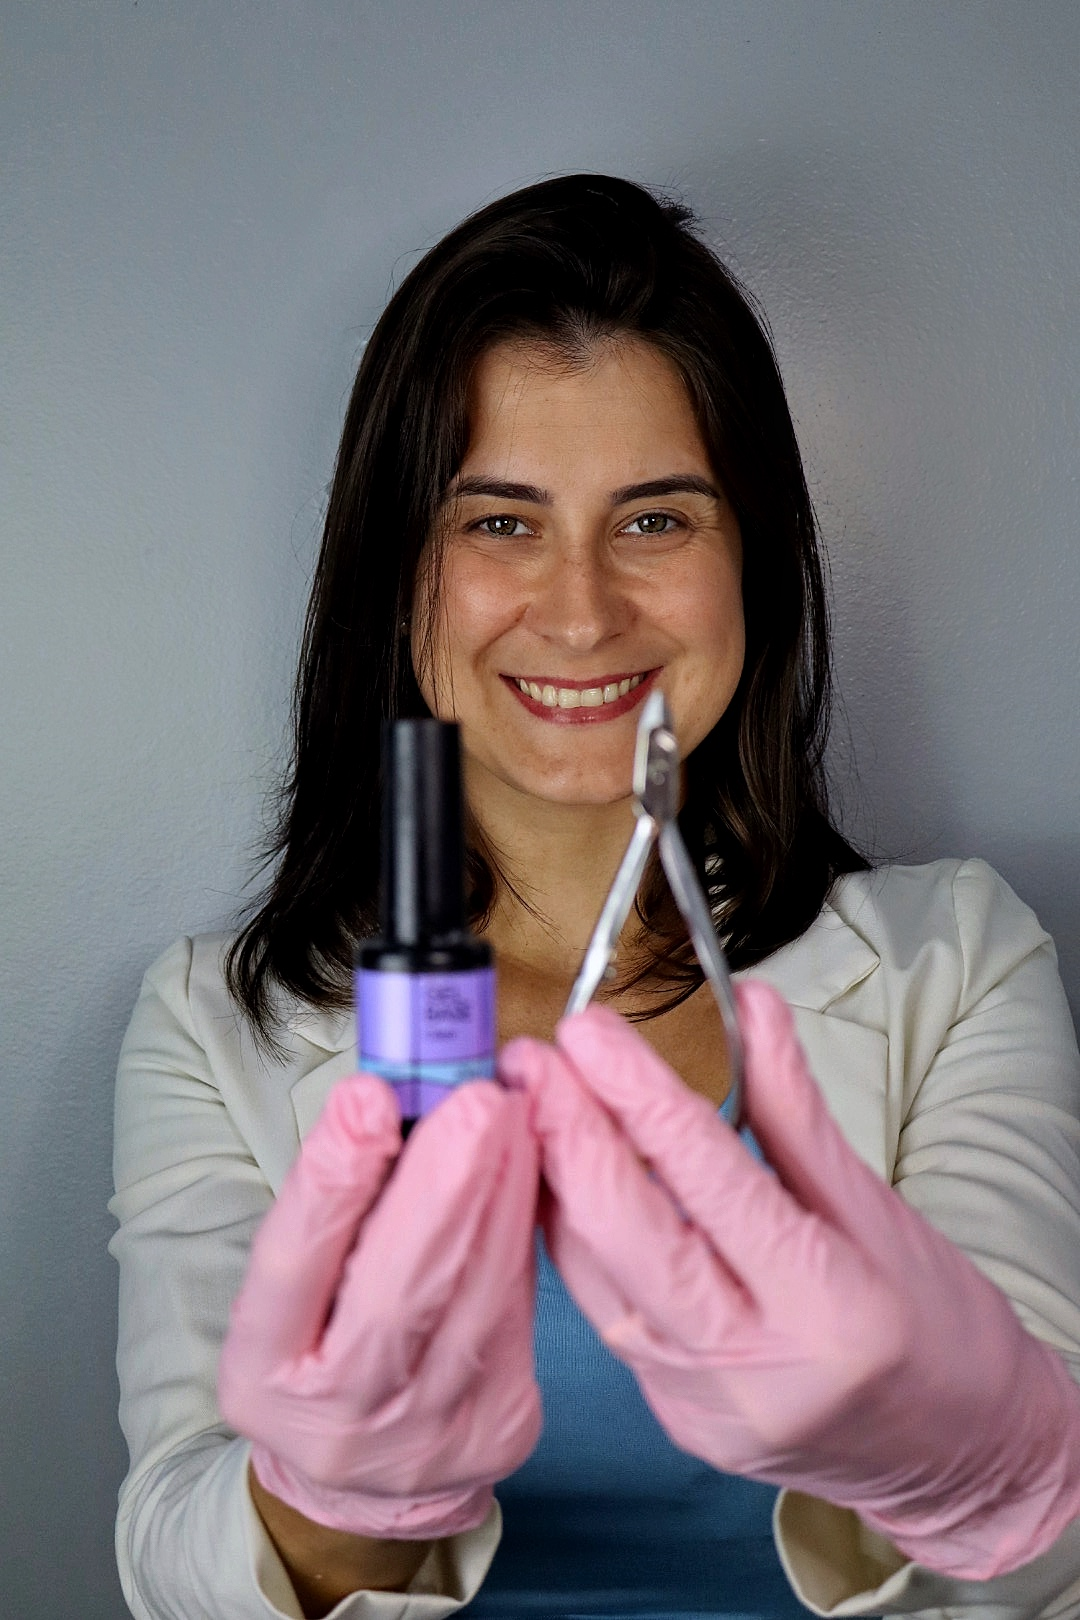
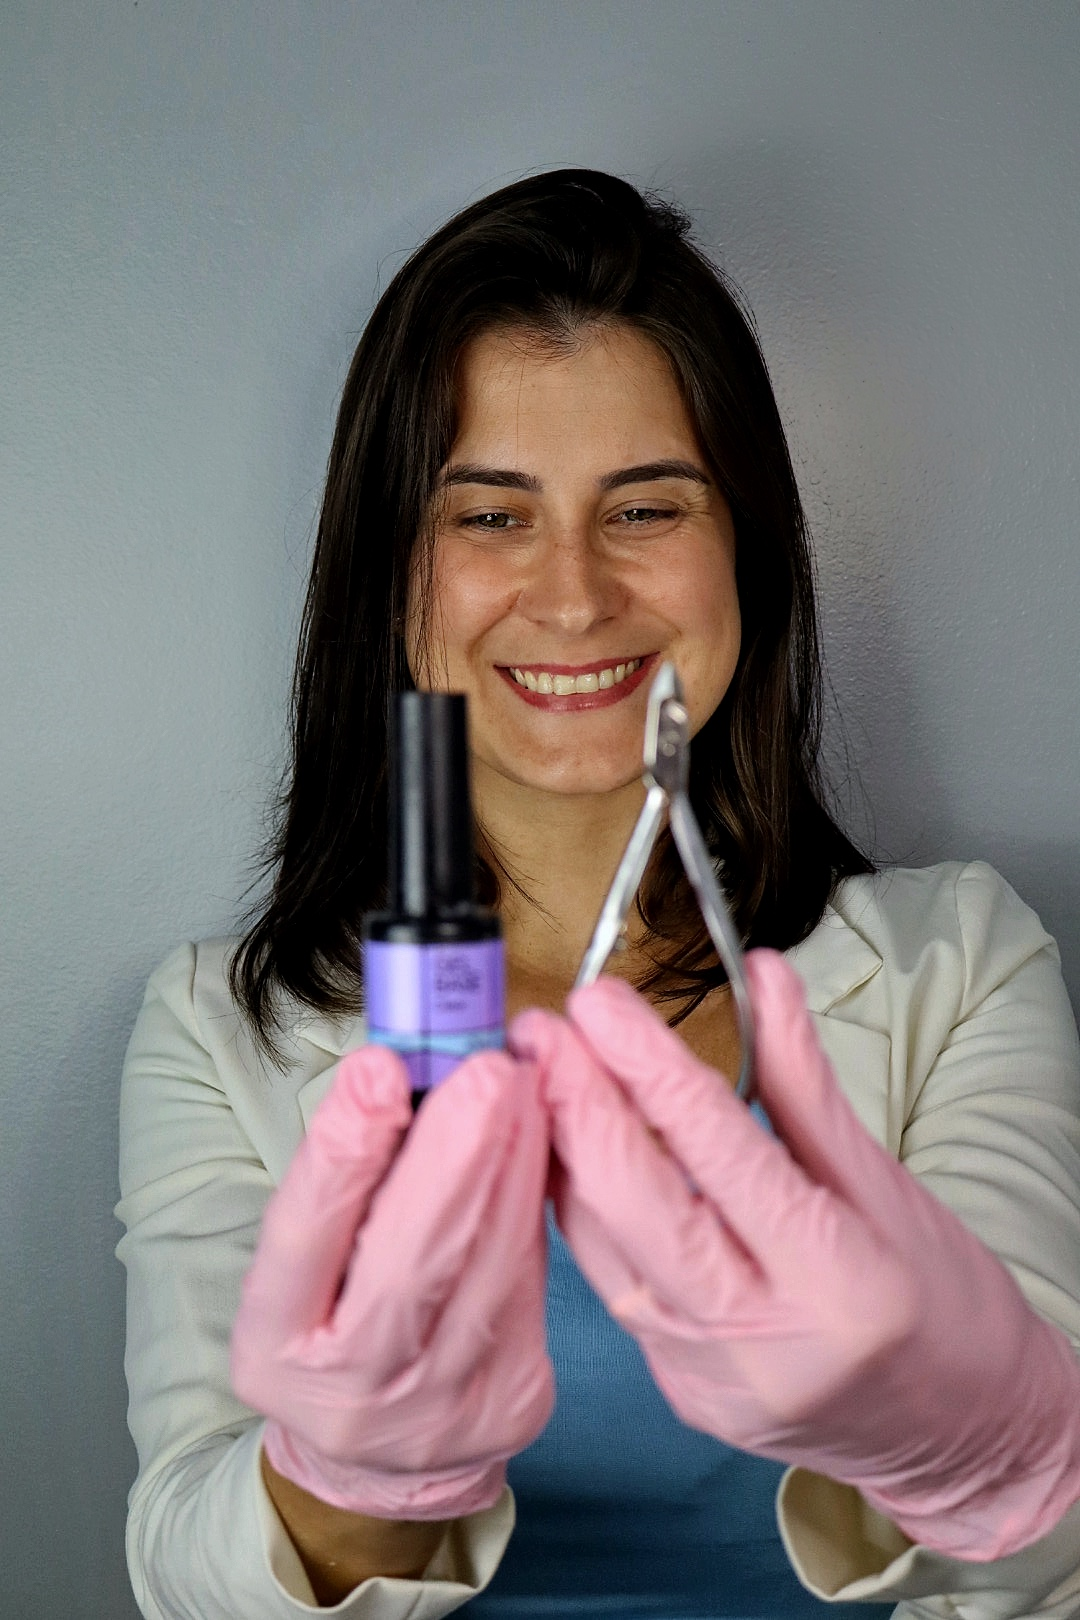
Adiciona álbuns de fotos clicáveis no portfólio
Ensaio Andrielly (10 fotos) e Amanda Carvalho (6 fotos) com visualização
em galeria e botão de retorno ao grid principal.

diff --git a/components/sections/Portfolio.tsx b/components/sections/Portfolio.tsx
@@ -3,8 +3,8 @@
 import { useState, useMemo } from "react";
 import Image from "next/image";
 import { motion, AnimatePresence } from "framer-motion";
-import { PROJECTS, CATEGORIES, type Category } from "@/data/projects";
-import { RevealOnScroll, RevealGroup, RevealItem } from "@/components/ui/RevealOnScroll";
+import { PROJECTS, CATEGORIES, type Category, type Project } from "@/data/projects";
+import { RevealOnScroll } from "@/components/ui/RevealOnScroll";
 
 const DESIGN_COLORS: Record<number, string> = {
   6: "from-[#2E1A10] to-[#1A1612]",
@@ -13,13 +13,86 @@ const DESIGN_COLORS: Record<number, string> = {
   9: "from-[#12181E] to-[#0E1214]",
 };
 
-const VIDEO_COLORS: Record<number, string> = {
-  10: "from-[#1A1012] to-[#0E0B09]",
-  11: "from-[#101A12] to-[#0B0E09]",
-};
+// ── Álbum view ──────────────────────────────────────────────────
+function AlbumView({ project, onBack }: { project: Project; onBack: () => void }) {
+  const images = project.images ?? [project.thumb];
 
+  return (
+    <motion.div
+      initial={{ opacity: 0, y: 30 }}
+      animate={{ opacity: 1, y: 0 }}
+      exit={{ opacity: 0, y: 20 }}
+      transition={{ duration: 0.5, ease: [0.76, 0, 0.24, 1] }}
+    >
+      {/* Header do álbum */}
+      <div className="flex items-start justify-between mb-12">
+        <div>
+          <div className="flex items-center gap-3 mb-4">
+            <span className="w-8 h-px bg-[var(--color-accent)]" />
+            <span className="text-[11px] uppercase tracking-[0.25em] text-[var(--color-accent)]"
+              style={{ fontFamily: "var(--font-mono, monospace)" }}>
+              {project.tags[0]}
+            </span>
+          </div>
+          <h2
+            className="text-3xl md:text-5xl font-light leading-tight tracking-[-0.02em]"
+            style={{ fontFamily: "var(--font-display, Georgia, serif)" }}
+          >
+            {project.title}
+          </h2>
+          <p className="text-[#6E6256] text-sm mt-2">{project.subtitle}</p>
+        </div>
+
+        <button
+          onClick={onBack}
+          className="group flex items-center gap-2 text-xs uppercase tracking-[0.15em] text-[#6E6256] hover:text-[#F2EDE8] border border-[#2E2820] hover:border-[var(--color-accent)]/40 px-4 py-2.5 rounded-sm transition-all duration-300 mt-2 flex-shrink-0"
+        >
+          <span className="group-hover:-translate-x-1 transition-transform duration-300">←</span>
+          Voltar
+        </button>
+      </div>
+
+      {/* Grid de fotos */}
+      <div className="columns-1 sm:columns-2 lg:columns-3 gap-4 space-y-4">
+        {images.map((src, i) => (
+          <motion.div
+            key={src}
+            initial={{ opacity: 0, y: 20 }}
+            animate={{ opacity: 1, y: 0 }}
+            transition={{ duration: 0.5, delay: i * 0.06, ease: [0.76, 0, 0.24, 1] }}
+            className="break-inside-avoid overflow-hidden rounded-sm"
+          >
+            <Image
+              src={src}
+              alt={`${project.title} — foto ${i + 1}`}
+              width={800}
+              height={1200}
+              sizes="(max-width: 640px) 100vw, (max-width: 1024px) 50vw, 33vw"
+              className="w-full h-auto object-cover hover:scale-[1.02] transition-transform duration-500"
+              loading={i < 3 ? "eager" : "lazy"}
+            />
+          </motion.div>
+        ))}
+      </div>
+
+      {/* Botão voltar no final */}
+      <div className="flex justify-center mt-16">
+        <button
+          onClick={onBack}
+          className="group flex items-center gap-3 text-xs uppercase tracking-[0.15em] text-[var(--color-accent)] border border-[var(--color-accent)]/30 px-6 py-3 rounded-sm hover:bg-[var(--color-accent)] hover:text-[#F2EDE8] transition-all duration-300"
+        >
+          <span className="group-hover:-translate-x-1 transition-transform duration-300">←</span>
+          Ver todos os trabalhos
+        </button>
+      </div>
+    </motion.div>
+  );
+}
+
+// ── Portfolio principal ──────────────────────────────────────────
 export function Portfolio() {
   const [active, setActive] = useState<Category>("destaques");
+  const [selectedProject, setSelectedProject] = useState<Project | null>(null);
 
   const filtered = useMemo(() => {
     if (active === "destaques") return PROJECTS.filter((p) => p.featured);
@@ -31,115 +104,133 @@ export function Portfolio() {
     <section id="portfolio" className="w-full bg-[#0E0B09] py-24 md:py-32">
       <div className="max-w-[1200px] mx-auto px-8 sm:px-12 md:px-16 lg:px-20">
 
-        {/* Header */}
-        <RevealOnScroll className="mb-16">
-          <div className="flex items-center gap-3 mb-6">
-            <span className="w-8 h-px bg-[var(--color-accent)]" />
-            <span className="text-[11px] uppercase tracking-[0.25em] text-[var(--color-accent)]"
-              style={{ fontFamily: "var(--font-mono, monospace)" }}>
-              Trabalhos
-            </span>
-          </div>
-          <h2
-            className="text-4xl md:text-6xl font-light leading-tight tracking-[-0.02em]"
-            style={{ fontFamily: "var(--font-display, Georgia, serif)" }}
-          >
-            Portfólio
-          </h2>
-        </RevealOnScroll>
-
-        {/* Filtros */}
-        <RevealOnScroll delay={0.15} className="flex flex-wrap gap-2 mb-12">
-          {CATEGORIES.map((cat) => (
-            <button
-              key={cat.key}
-              onClick={() => setActive(cat.key)}
-              className={`px-4 py-2 text-xs uppercase tracking-[0.15em] rounded-sm border transition-all duration-300 ${
-                active === cat.key
-                  ? "bg-[var(--color-accent)] border-[var(--color-accent)] text-[#F2EDE8]"
-                  : "border-[#2E2820] text-[#6E6256] hover:border-[var(--color-accent)]/50 hover:text-[#A09488]"
-              }`}
+        <AnimatePresence mode="wait">
+          {selectedProject ? (
+            <AlbumView
+              key="album"
+              project={selectedProject}
+              onBack={() => setSelectedProject(null)}
+            />
+          ) : (
+            <motion.div
+              key="grid"
+              initial={{ opacity: 0 }}
+              animate={{ opacity: 1 }}
+              exit={{ opacity: 0 }}
+              transition={{ duration: 0.4 }}
             >
-              {cat.label}
-            </button>
-          ))}
-        </RevealOnScroll>
-
-        {/* Grid */}
-        <motion.div layout className="grid grid-cols-1 sm:grid-cols-2 lg:grid-cols-3 gap-4 md:gap-5">
-          <AnimatePresence mode="popLayout">
-            {filtered.map((project, i) => (
-              <motion.article
-                key={project.id}
-                layout
-                initial={{ opacity: 0, y: 40, scale: 0.97, filter: "blur(6px)" }}
-                whileInView={{ opacity: 1, y: 0, scale: 1, filter: "blur(0px)" }}
-                exit={{ opacity: 0, scale: 0.94, filter: "blur(4px)" }}
-                viewport={{ once: true, amount: 0.1 }}
-                transition={{
-                  duration: 0.7,
-                  delay: (i % 3) * 0.1,
-                  ease: [0.76, 0, 0.24, 1],
-                }}
-                className="group relative overflow-hidden rounded-sm cursor-pointer bg-[#1A1612]"
-                style={{ aspectRatio: project.orientation === "portrait" ? "3/4" : "4/3" }}
-              >
-                {/* Imagem ou placeholder */}
-                {project.thumb ? (
-                  <Image
-                    src={project.thumb}
-                    alt={project.title}
-                    fill
-                    sizes="(max-width: 640px) 100vw, (max-width: 1024px) 50vw, 33vw"
-                    className="object-cover transition-transform duration-700 group-hover:scale-105"
-                    style={{ objectPosition: "center top" }}
-                    loading={i === 0 ? "eager" : "lazy"}
-                  />
-                ) : (
-                  <div
-                    className={`absolute inset-0 bg-gradient-to-br ${
-                      project.category === "design"
-                        ? (DESIGN_COLORS[project.id] ?? "from-[#1A1612] to-[#0E0B09]")
-                        : (VIDEO_COLORS[project.id] ?? "from-[#1A1612] to-[#0E0B09]")
-                    } flex items-center justify-center`}
-                  >
-                    <span className="text-[40px] opacity-10 select-none">
-                      {project.category === "design" ? "◻" : "▷"}
-                    </span>
-                  </div>
-                )}
-
-                {/* Overlay hover */}
-                <div className="absolute inset-0 bg-gradient-to-t from-[#0E0B09]/90 via-[#0E0B09]/20 to-transparent opacity-0 group-hover:opacity-100 transition-opacity duration-400" />
-
-                {/* Info card */}
-                <div className="absolute bottom-0 left-0 right-0 p-5 translate-y-3 group-hover:translate-y-0 opacity-0 group-hover:opacity-100 transition-all duration-400">
-                  <div className="flex items-center gap-2 mb-2">
-                    {project.tags.slice(0, 2).map((tag) => (
-                      <span key={tag} className="text-[10px] uppercase tracking-wider text-[var(--color-accent)]">
-                        {tag}
-                      </span>
-                    ))}
-                  </div>
-                  <h3
-                    className="text-[#F2EDE8] text-lg font-light leading-tight"
-                    style={{ fontFamily: "var(--font-display, Georgia, serif)" }}
-                  >
-                    {project.title}
-                  </h3>
-                  <p className="text-[#B0A89E] text-xs mt-1">{project.subtitle}</p>
-                </div>
-
-                {/* Categoria badge */}
-                <div className="absolute top-4 right-4 opacity-0 group-hover:opacity-100 transition-opacity duration-300">
-                  <span className="text-[10px] uppercase tracking-wider px-2 py-1 bg-[#0E0B09]/80 text-[#6E6256] rounded-sm">
-                    {project.category}
+              {/* Header */}
+              <RevealOnScroll className="mb-16">
+                <div className="flex items-center gap-3 mb-6">
+                  <span className="w-8 h-px bg-[var(--color-accent)]" />
+                  <span className="text-[11px] uppercase tracking-[0.25em] text-[var(--color-accent)]"
+                    style={{ fontFamily: "var(--font-mono, monospace)" }}>
+                    Trabalhos
                   </span>
                 </div>
-              </motion.article>
-            ))}
-          </AnimatePresence>
-        </motion.div>
+                <h2
+                  className="text-4xl md:text-6xl font-light leading-tight tracking-[-0.02em]"
+                  style={{ fontFamily: "var(--font-display, Georgia, serif)" }}
+                >
+                  Portfólio
+                </h2>
+              </RevealOnScroll>
+
+              {/* Filtros */}
+              <RevealOnScroll delay={0.15} className="flex flex-wrap gap-2 mb-12">
+                {CATEGORIES.map((cat) => (
+                  <button
+                    key={cat.key}
+                    onClick={() => setActive(cat.key)}
+                    className={`px-4 py-2 text-xs uppercase tracking-[0.15em] rounded-sm border transition-all duration-300 ${
+                      active === cat.key
+                        ? "bg-[var(--color-accent)] border-[var(--color-accent)] text-[#F2EDE8]"
+                        : "border-[#2E2820] text-[#6E6256] hover:border-[var(--color-accent)]/50 hover:text-[#A09488]"
+                    }`}
+                  >
+                    {cat.label}
+                  </button>
+                ))}
+              </RevealOnScroll>
+
+              {/* Grid */}
+              <motion.div layout className="grid grid-cols-1 sm:grid-cols-2 lg:grid-cols-3 gap-4 md:gap-5">
+                <AnimatePresence mode="popLayout">
+                  {filtered.map((project, i) => (
+                    <motion.article
+                      key={project.id}
+                      layout
+                      initial={{ opacity: 0, y: 40, scale: 0.97, filter: "blur(6px)" }}
+                      whileInView={{ opacity: 1, y: 0, scale: 1, filter: "blur(0px)" }}
+                      exit={{ opacity: 0, scale: 0.94, filter: "blur(4px)" }}
+                      viewport={{ once: true, amount: 0.1 }}
+                      transition={{ duration: 0.7, delay: (i % 3) * 0.1, ease: [0.76, 0, 0.24, 1] }}
+                      onClick={() => project.images && setSelectedProject(project)}
+                      className={`group relative overflow-hidden rounded-sm bg-[#1A1612] ${
+                        project.images ? "cursor-pointer" : "cursor-default"
+                      }`}
+                      style={{ aspectRatio: project.orientation === "portrait" ? "3/4" : "4/3" }}
+                    >
+                      {/* Imagem ou placeholder */}
+                      {project.thumb ? (
+                        <Image
+                          src={project.thumb}
+                          alt={project.title}
+                          fill
+                          sizes="(max-width: 640px) 100vw, (max-width: 1024px) 50vw, 33vw"
+                          className="object-cover transition-transform duration-700 group-hover:scale-105"
+                          style={{ objectPosition: "center top" }}
+                          loading={i === 0 ? "eager" : "lazy"}
+                        />
+                      ) : (
+                        <div
+                          className={`absolute inset-0 bg-gradient-to-br ${
+                            DESIGN_COLORS[project.id] ?? "from-[#1A1612] to-[#0E0B09]"
+                          } flex items-center justify-center`}
+                        >
+                          <span className="text-[40px] opacity-10 select-none">◻</span>
+                        </div>
+                      )}
+
+                      {/* Overlay hover */}
+                      <div className="absolute inset-0 bg-gradient-to-t from-[#0E0B09]/90 via-[#0E0B09]/20 to-transparent opacity-0 group-hover:opacity-100 transition-opacity duration-400" />
+
+                      {/* Info card */}
+                      <div className="absolute bottom-0 left-0 right-0 p-5 translate-y-3 group-hover:translate-y-0 opacity-0 group-hover:opacity-100 transition-all duration-400">
+                        <div className="flex items-center gap-2 mb-2">
+                          {project.tags.slice(0, 2).map((tag) => (
+                            <span key={tag} className="text-[10px] uppercase tracking-wider text-[var(--color-accent)]">
+                              {tag}
+                            </span>
+                          ))}
+                        </div>
+                        <h3
+                          className="text-[#F2EDE8] text-lg font-light leading-tight"
+                          style={{ fontFamily: "var(--font-display, Georgia, serif)" }}
+                        >
+                          {project.title}
+                        </h3>
+                        <p className="text-[#B0A89E] text-xs mt-1">{project.subtitle}</p>
+                        {project.images && (
+                          <p className="text-[10px] uppercase tracking-[0.15em] text-[var(--color-accent)] mt-3 flex items-center gap-1">
+                            Ver álbum ({project.images.length} fotos) →
+                          </p>
+                        )}
+                      </div>
+
+                      {/* Categoria badge */}
+                      <div className="absolute top-4 right-4 opacity-0 group-hover:opacity-100 transition-opacity duration-300">
+                        <span className="text-[10px] uppercase tracking-wider px-2 py-1 bg-[#0E0B09]/80 text-[#6E6256] rounded-sm">
+                          {project.category}
+                        </span>
+                      </div>
+                    </motion.article>
+                  ))}
+                </AnimatePresence>
+              </motion.div>
+            </motion.div>
+          )}
+        </AnimatePresence>
 
       </div>
     </section>

diff --git a/data/projects.ts b/data/projects.ts
@@ -9,6 +9,7 @@ export interface Project {
   thumb: string;
   featured?: boolean;
   orientation?: "portrait" | "landscape";
+  images?: string[];
 }
 
 export const PROJECTS: Project[] = [
@@ -21,6 +22,18 @@ export const PROJECTS: Project[] = [
     thumb: "/images/ensaio-andrielly-01.jpg",
     featured: true,
     orientation: "portrait",
+    images: [
+      "/images/ensaio-andrielly-01.jpg",
+      "/images/ensaio-andrielly-02.jpg",
+      "/images/ensaio-andrielly-03.jpg",
+      "/images/ensaio-andrielly-04.jpg",
+      "/images/ensaio-andrielly-05.jpg",
+      "/images/ensaio-andrielly-06.jpg",
+      "/images/ensaio-andrielly-07.jpg",
+      "/images/ensaio-andrielly-08.jpg",
+      "/images/ensaio-andrielly-09.jpg",
+      "/images/ensaio-andrielly-10.jpg",
+    ],
   },
   {
     id: 2,
@@ -40,6 +53,14 @@ export const PROJECTS: Project[] = [
     thumb: "/images/ensaio-amanda-01.jpg",
     featured: true,
     orientation: "portrait",
+    images: [
+      "/images/ensaio-amanda-01.jpg",
+      "/images/ensaio-amanda-02.jpg",
+      "/images/ensaio-amanda-03.jpg",
+      "/images/ensaio-amanda-04.jpg",
+      "/images/ensaio-amanda-05.jpg",
+      "/images/ensaio-amanda-06.jpg",
+    ],
   },
   {
     id: 4,